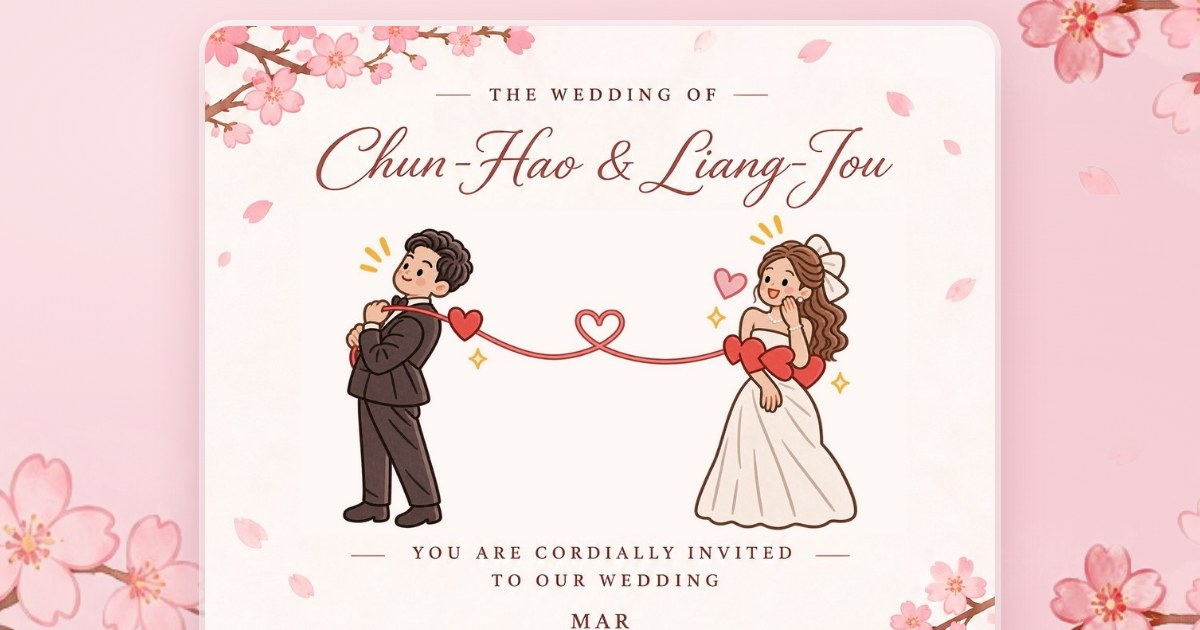
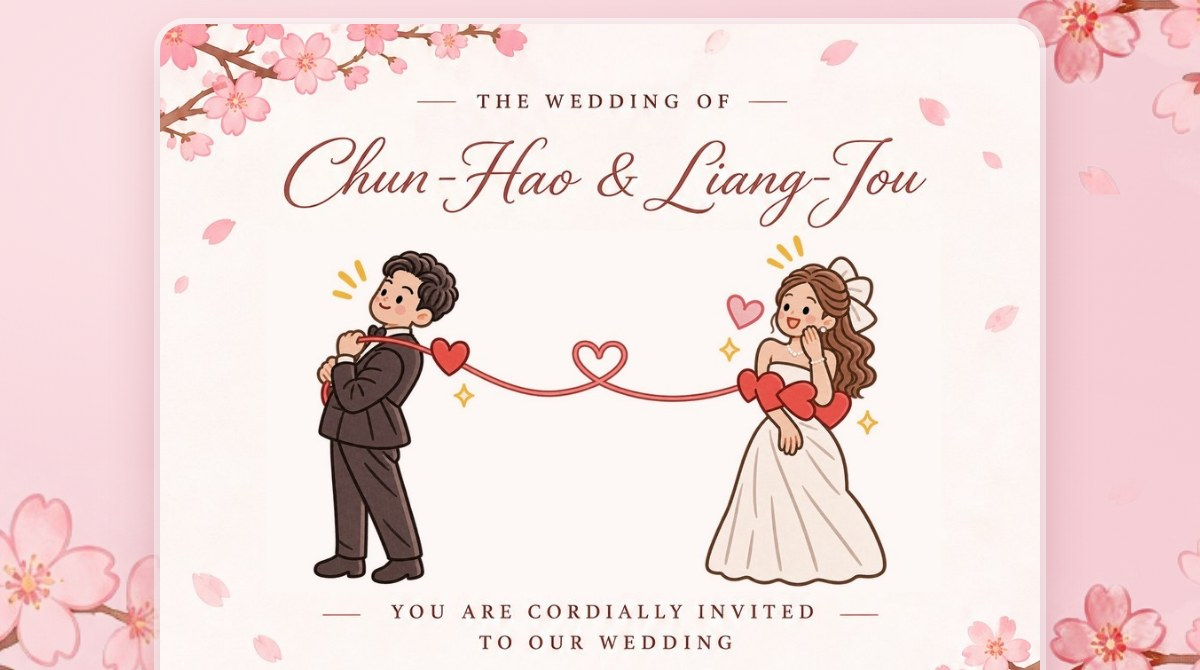
Link preview: match reference proportions, hide date
Claude-Session: https://claude.ai/code/session_01T9F5Wai4TNnooEUEQP2Xdp

diff --git a/index.html b/index.html
@@ -9,9 +9,9 @@
 <meta property="og:url" content="https://br495685.github.io/wedding-calendar/">
 <meta property="og:title" content="王俊皓 ♥ 陳良柔 婚禮邀請">
 <meta property="og:description" content="2027.3.13（六）午宴｜台北文華東方酒店 8F 文華閣｜敬請於 12/31 前回覆 ♡">
-<meta property="og:image" content="https://br495685.github.io/wedding-calendar/og.jpg?v=5">
+<meta property="og:image" content="https://br495685.github.io/wedding-calendar/og.jpg?v=6">
 <meta property="og:image:width" content="1200">
-<meta property="og:image:height" content="630">
+<meta property="og:image:height" content="670">
 <meta name="twitter:card" content="summary_large_image">
 <link rel="preconnect" href="https://fonts.googleapis.com">
 <link href="https://fonts.googleapis.com/css2?family=Great+Vibes&family=Cinzel:wght@400;600&family=Cormorant+Garamond:wght@500;600&family=Noto+Serif+TC:wght@400;500;700&family=LXGW+WenKai+TC:wght@400;700&family=Noto+Sans+Myanmar:wght@400;500;700&display=swap" rel="stylesheet">
